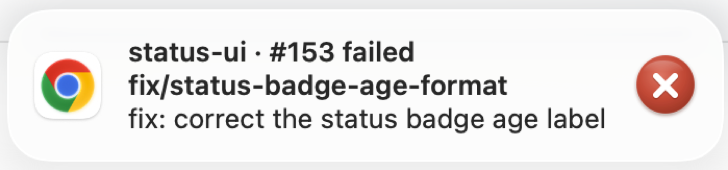
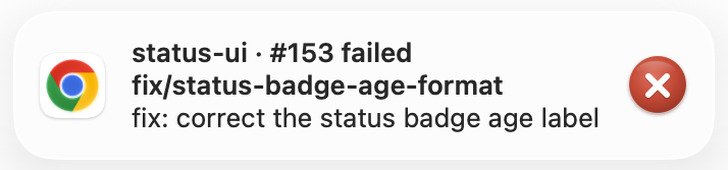
chore(screenshots): recapture the failure notifications as an aligned pair
The light and dark notifications were cropped differently, so the site carousel jumped on a
theme change. Both now share one crop and scale.

Claude-Session: https://claude.ai/code/session_011j52fRR2in31aP7ykMJ2Gj

diff --git a/docs/screenshots.md b/docs/screenshots.md
@@ -26,9 +26,9 @@ screenshots into `store-screenshots/auto/`. Headed Chrome matters: headless rend
 slightly off. Edit the `TARGETS` array to change which surfaces, themes, widths, or crops are shot.
 
 `sidepanel-light`, `popup-light` and `options-light` pair the dark captures at the same sizes for
-feedmypixel.com. They are not framed. `failure-notification-light.png` pairs
-`3-failure-notification.png`: a real macOS notification, captured outside this pipeline with macOS
-in light mode.
+feedmypixel.com. They are not framed. `failure-notification-light.png` and
+`failure-notification-dark.png` are a pixel-aligned pair of real macOS notifications, captured
+outside this pipeline with macOS in each theme.
 
 ## 3. Frame
 
